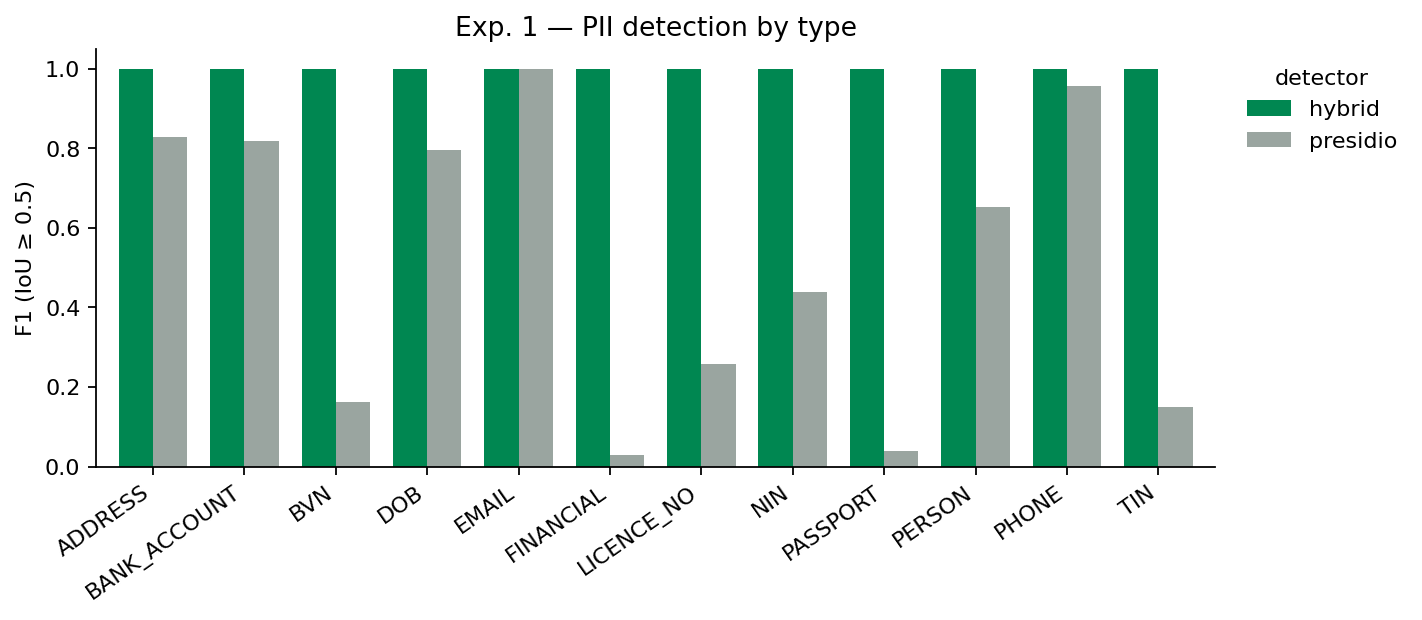
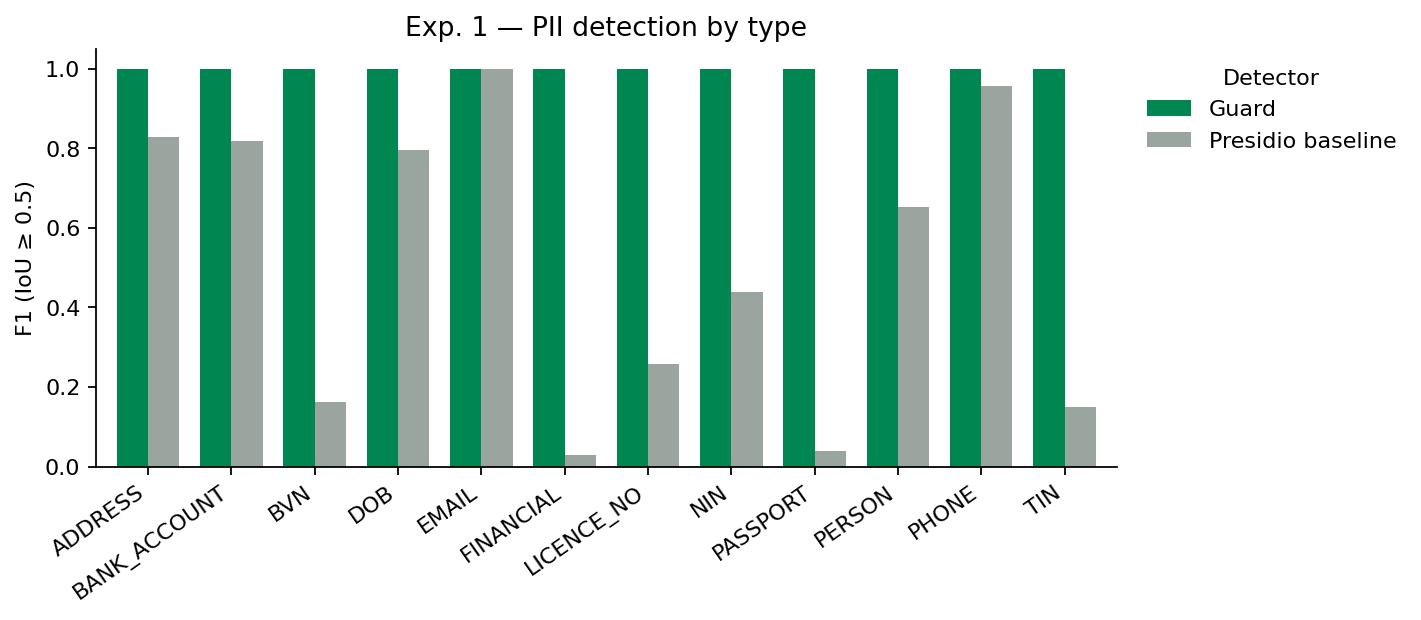
F1 chart: label the detectors "Guard" and "Presidio baseline"
The legend used the internal names "hybrid" and "presidio". Only the
plotting script and the chart image change; the result tables keep the
internal names.

diff --git a/scripts/08_plot.py b/scripts/08_plot.py
@@ -19,10 +19,11 @@ COND_LABEL = {"raw": "No redaction", "full": "Full redaction", "task_aware": "Ta
 if (TABLES / "detection.csv").exists():
     d = pd.read_csv(TABLES / "detection.csv")
     d = d[d.pii_type != "ALL"].pivot(index="pii_type", columns="detector", values="f1").fillna(0)
-    ax = d.plot.bar(figsize=(9, 4), width=0.75, color={"hybrid": "#008751", "presidio": "#9aa5a0"})
+    d = d.rename(columns={"hybrid": "Guard", "presidio": "Presidio baseline"})   # reader-facing names
+    ax = d.plot.bar(figsize=(9, 4), width=0.75, color={"Guard": "#008751", "Presidio baseline": "#9aa5a0"})
     ax.set_ylabel("F1 (IoU ≥ 0.5)"); ax.set_xlabel(""); ax.set_ylim(0, 1.05); ax.set_title("Exp. 1 — PII detection by type")
     # Legend beside the plot: most bars reach 1.0, so anywhere inside the axes it covers data.
-    ax.legend(title="detector", frameon=False, loc="upper left", bbox_to_anchor=(1.01, 1.0))
+    ax.legend(title="Detector", frameon=False, loc="upper left", bbox_to_anchor=(1.01, 1.0))
     ax.spines[["top", "right"]].set_visible(False)
     plt.xticks(rotation=35, ha="right"); plt.tight_layout()
     plt.savefig(FIGURES / "detection_f1.png", dpi=160, bbox_inches="tight"); plt.close()

diff --git a/LOG.md b/LOG.md
@@ -37,7 +37,7 @@ result lives in the repository. The technical reasoning behind the decisions is 
 | 2026-11-09 | Chapter Two (Literature Review) drafted in the same format as Chapter One: theoretical framework (contextual integrity, data minimization, privacy by design), screenshot-driven agents and their evaluation, Nigerian e-services and identifiers, agent privacy risks, PII detection and redaction, recent work on protecting screenshots, a table of related works, four research gaps, and 55 APA references. Every source was opened online before being cited. The review found 2026 preprints on mobile agents that already redact screenshots according to the task, so the gap is stated as setting, identifiers, method and evaluation, not as "first task-aware redaction". | `thesis/CHAPTER_TWO_Literature_Review_v1.docx`. |
 | 2026-11-10 | Chapter Three (Methodology) drafted, following the section layout of the department's sample project: research model and use-case diagram, source of data, challenges of the existing system, system design with data flow and module flowcharts, dataset design with an entity relationship diagram and record tables (in place of database design, since the system has no database), architecture, software and hardware specifications, algorithm of the guard, and an added section on the evaluation method for the three experiments. 10 figures and 12 tables, all drawn from the code and data in this repository. | `thesis/CHAPTER_THREE_Methodology_v1.docx`. |
 | 2026-11-10 | Presidio baseline re-run on all 501 screenshots, so that Experiment 1 scores both detectors on the same material (the baseline had covered 30 screenshots). Result on 2,895 values: precision 0.903, recall 0.561, F1 0.692, type accuracy 0.759. The 30 original screenshots are reproduced detection for detection on the Windows laptop. All 174 false positives are the label "Annual Income" read as a date. | `results/redacted/**/guard.presidio.json` (501 files), `results/REPORT.md`, `PROJECT_RECORD.md` §4.4, §5.1, §6, §8; `POC.md` §4, §5.1; `run_all.sh`, `run_all.ps1`; `thesis/CHAPTER_THREE_Methodology_v2.docx`. `results/tables/detection.csv`, `detection_samples.csv`, `guard_latency.presidio.csv` and `results/figures/detection_f1.png` were put in place on 2026-11-11 (see open item 1). |
-| 2026-11-12 | F1 chart redrawn with its legend beside the plot; it used to cover the tops of two bars. One change in the plotting script, no data changed. | `scripts/08_plot.py`, `results/figures/detection_f1.png`. |
+| 2026-11-12 | F1 chart redrawn with its legend beside the plot; it used to cover the tops of two bars. The legend labels were then renamed from the internal names "hybrid" and "presidio" to "Guard" and "Presidio baseline". Changes to the plotting script only, no data changed. | `scripts/08_plot.py`, `results/figures/detection_f1.png`. |
 
 ## Open items as of 2026-11-12
 
